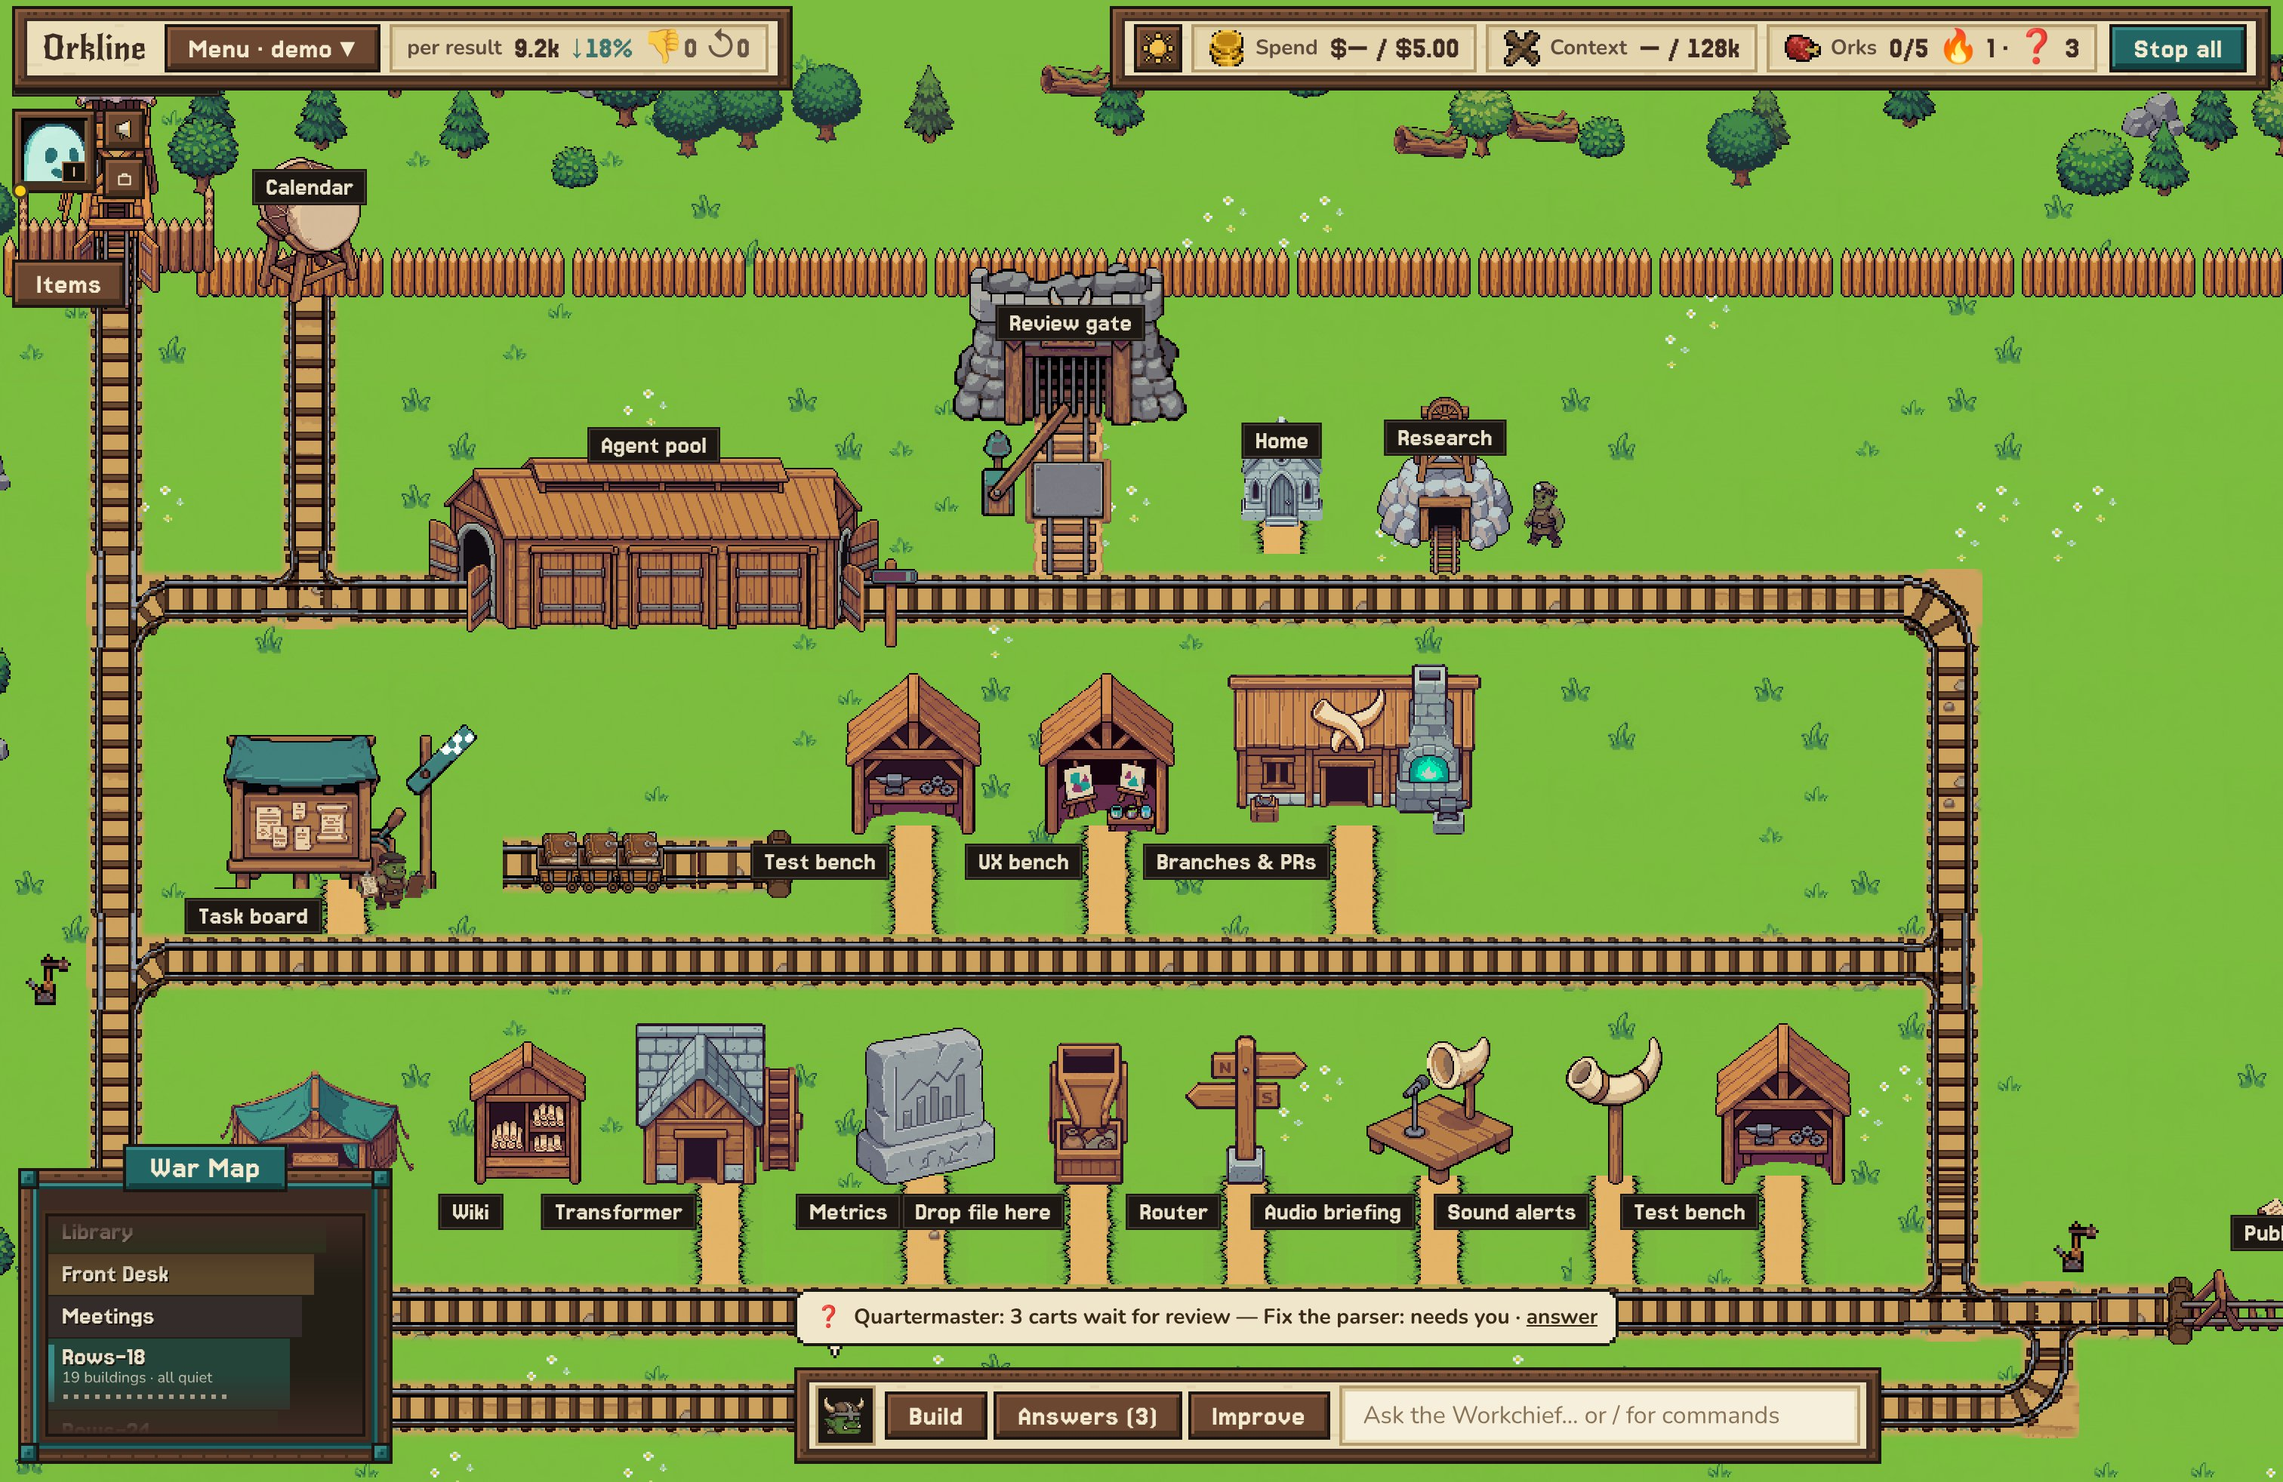
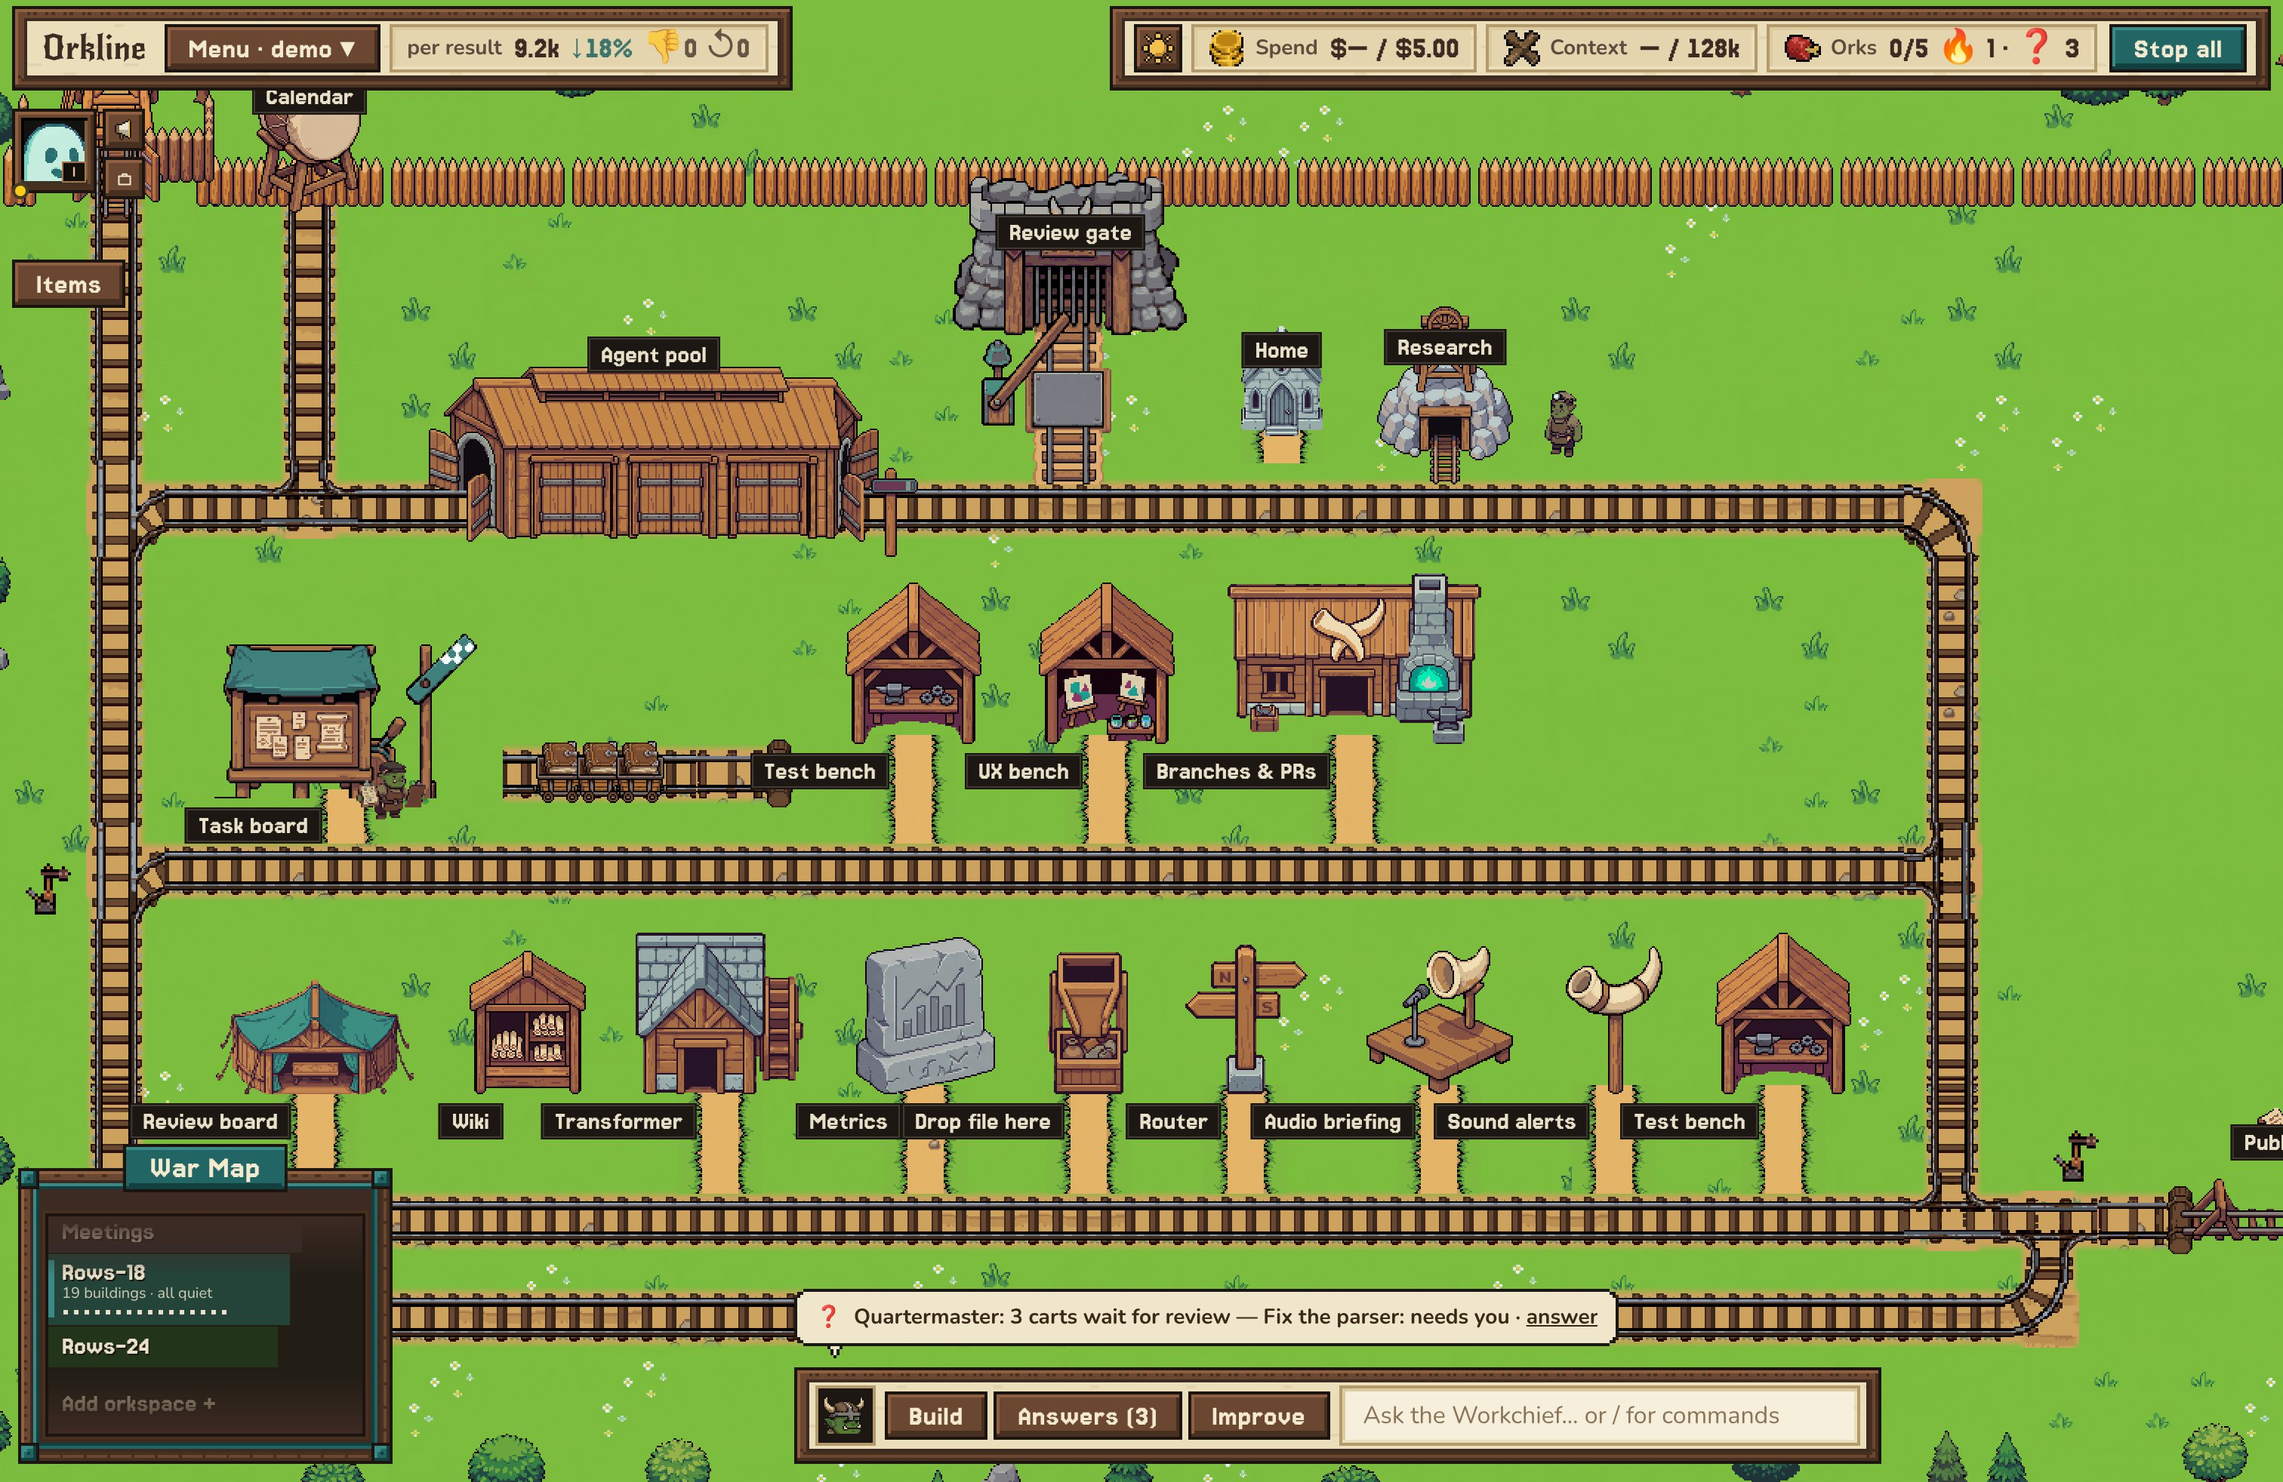
Camp: no notice band in the default frame; the view eases down for a herald's open notice
The default view frames the rows and the return line (3 x 6 at 1512 x 982). A herald's notice
(js/camp/notices.js, the kit's .kit-notice) opens over its herald; when its top would fall under
the HUD the view eases down just enough, only at x1 and not dragged, and back when it folds. By
the window's edge it stands aside of the camp's tools, its tail still over its herald.

Claude-Session: https://claude.ai/code/session_01UgRxyAxUf28MQWrZTqTq3V

diff --git a/orkcraft/gui/static/js/camp/town.js b/orkcraft/gui/static/js/camp/town.js
@@ -30,6 +30,7 @@ import { coverTop } from "../inset.js";
 import { settingsOpen } from "../settings.js";
 import { openMenu } from "../menu.js";
 import { Placed, Inventory } from "./items.js";
+import { Notices, notices } from "./notices.js";
 
 /** The ork a click on a building's steward means: the one stopped or asking, else at work, else its first; its
  *  console's key (core/slots.py rows: a roster ork's ref, a pool's `<building>/<name>`); null with none to show. */
@@ -47,7 +48,8 @@ const averagePerResult = (s) => (!s ? null : s.tokens !== null && s.tokens !== u
 const onOrk = (b) => { const key = orkKey(b); if (key) { stewardOf.value = null; showConsole(key, true); } else openStewardConsole(b.id); };
 const onBubble = (b) => { waybillOf.value = { building: b.id }; };   // the task's history
 
-const pan = signal({ x: 0, y: 0 });        // the drag's offset from the default view, CSS px
+const pan = signal({ x: 0, y: 0 });
+const ease = signal(0);                    // how far the view eases down for a herald's notice (§4f)        // the drag's offset from the default view, CSS px
 let panned = false;                        // the last press dragged the town: its click selects nothing
 const DRAG_PX = 5;
 
@@ -382,7 +384,24 @@ export function CampTown({ buildings, roads }) {
   const ox = !L ? 0 : Math.round(seen / 2 - (focus ? focus.x : L.work.x + L.work.w / 2) + pan.value.x);
   // covered, a camp taller than what is left shows its last line (where the carts run) above the panel, the wall's top cut
   const low = !L || focus || !box || L.work.h <= tall ? null : L.work.y + L.work.h - tall + 8;
-  const oy = !L ? 0 : Math.round((low !== null ? -low : tall / 2 - (focus ? focus.y : L.work.y + L.work.h / 2)) + pan.value.y);
+  // a herald's notice open at the default view, not dragged: the view eases down just enough for its top to clear the
+  // HUD (§4f), and back when it folds (measured after it draws: `ease`)
+  const easing = !focus && zoomLevel.value === "b" && !pan.value.x && !pan.value.y && Object.keys(notices.value).length > 0;
+  const oyBase = !L ? 0 : Math.round((low !== null ? -low : tall / 2 - (focus ? focus.y : L.work.y + L.work.h / 2)) + pan.value.y);
+  const oy = oyBase + (easing ? ease.value : 0);
+  useLayoutEffect(() => {
+    // from layout, not from the moving picture: each notice's top in the world (its herald's top, its tail, its own
+    // height), where the un-eased view puts it on screen, and the HUD's foot; settles in one pass
+    if (!easing || !L || !ref.current) { if (ease.value) ease.value = 0; return; }
+    const top = ref.current.getBoundingClientRect().top + ref.current.clientTop;   // the world's place inside its border
+    const hud = Math.max(0, ...[...document.querySelectorAll(".gui-hud__group")].map((e) => e.getBoundingClientRect().bottom));
+    const tops = [...document.querySelectorAll(".gui-camp__notice")].map((el) => {
+      const p = L.buildings[el.dataset.id];
+      return p ? top + oyBase + p.y - 6 - 16 - el.offsetHeight : Infinity;
+    });
+    const need = Math.max(0, Math.round(hud + 12 - Math.min(...tops)));
+    if (need !== ease.value) ease.value = need;
+  });
 
   const down = (e) => {
     if (e.button !== 0 || placing.value) return;
@@ -423,7 +442,7 @@ export function CampTown({ buildings, roads }) {
   const grown = grownCard.value && buildings.find((b) => b.id === grownCard.value);
   return html`<main ref=${ref} class=${cls("gui-town gui-camp", { "is-panning": panned, "is-overview": zoomLevel.value === "a" })} data-step=${L ? `${step.b}/${step.s}` : ""}
       onPointerDown=${down} onWheel=${wheel} onClick=${bare} onContextMenu=${(e) => { if (!e.target.closest(".gui-camp__building")) bareMenu(e, buildings, here, null); }}>
-    ${L && html`<div class=${cls("gui-camp__world", { "is-following": !!focus })} style=${`width:${L.w}px;height:${L.h}px;transform:translate(${ox}px,${oy}px)`}>
+    ${L && html`<div class=${cls("gui-camp__world", { "is-following": !!focus || easing || ease.value > 0 })} style=${`width:${L.w}px;height:${L.h}px;transform:translate(${ox}px,${oy}px)`}>
       <${Decals} L=${L} />
       <${Bed} L=${L} />
       <${Paths} L=${L} />
@@ -445,6 +464,7 @@ export function CampTown({ buildings, roads }) {
       ${finale && html`<div class="gui-camp__layer is-carts"><${Finale} key=${finale.id} L=${L} f=${finale} /></div>`}
       ${outB && html`<${StewardOut} b=${outB} p=${L.buildings[outB.id]} L=${L} grown=${selected.value === outB.id} onOrk=${onOrk} onBubble=${onBubble}
         seen=${{ left: -ox, top: -oy + 8, right: -ox + seen }} />`}
+      <${Notices} L=${L} seen=${{ left: -ox, right: -ox + seen }} />
       ${placing.value && html`<${Placing} p=${placing.value} L=${L} />`}
       ${grown && L.buildings[grown.id] && html`<${GrownCard} b=${grown} p=${L.buildings[grown.id]} L=${L} />`}
     </div>`}

diff --git a/orkcraft/gui/static/js/camp/notices.js b/orkcraft/gui/static/js/camp/notices.js
@@ -1,0 +1,48 @@
+// A herald's notice (design-system-v3.md §4f; the V4 kit's .kit-notice): over the herald on the back wall (the lookout,
+// the Calendar), opening upwards over the wall and the wilderness, never over a building. One at a time a herald; more
+// behind it a "+N" plate; folded, a small count chip. When the person is at the default view and has not dragged it,
+// the view eases down just enough for the notice's top to clear the HUD, and back when it folds (js/camp/town.js).
+// What raises a notice is the heralds' own (later); this module only places and draws it.
+import { signal } from "@preact/signals";
+import { html, cls } from "../html.js";
+import { say } from "../link.js";
+
+/** Open notices by building id: { title, when?, lines: [text | { text, small }], acts: [{ label, primary?, run? }],
+ *  ask? (a question: its mark alone yellow), more? (how many behind it), folded? (only the count chip) }. */
+export const notices = signal({});
+
+export const showNotice = (id, n) => { notices.value = { ...notices.value, [id]: n }; };
+export const foldNotice = (id) => { const n = { ...notices.value }; delete n[id]; notices.value = n; };
+
+function Notice({ id, n }) {
+  if (n.folded) {
+    return html`<button type="button" class="kit-notice-chip" onClick=${(e) => { e.stopPropagation(); showNotice(id, { ...n, folded: false }); }}>
+      ${say(`${n.count || 1} new`)}</button>`;
+  }
+  return html`<div class=${cls("kit-notice", { "is-stacked": n.more > 0 })} role="dialog" aria-label=${say(n.title)}>
+    ${n.more > 0 && html`<span class="kit-notice__more">+${n.more}</span>`}
+    <div class="kit-notice__head">${n.ask && html`<span class="kit-notice__ask">?</span>`}
+      <span class="kit-notice__title">${say(n.title)}</span>${n.when && html`<span class="kit-notice__when">${say(n.when)}</span>`}</div>
+    ${(n.lines || []).map((l) => html`<p class=${cls("kit-notice__line", { "is-small": l && l.small })}>${say(typeof l === "string" ? l : l.text)}</p>`)}
+    <div class="kit-notice__acts">${(n.acts || [{ label: "Dismiss" }]).map((a) => html`<button type="button"
+        class=${cls("kit-btn", { "is-teal": a.primary })} onClick=${(e) => { e.stopPropagation(); (a.run || (() => foldNotice(id)))(); }}>${say(a.label)}</button>`)}</div>
+  </div>`;
+}
+
+const HALF = 190;         // half the widest notice (the kit's 360 px and its frame)
+const RAIL = 104;         // the camp's tools down the left edge (the Workchief, Items): a notice stays right of them
+const SWAY = 150;         // how far a notice may stand aside of its herald, its tail still over the herald
+
+/** The open notices, each over its herald's top, its tail pointing down at it; one by the window's edge stands aside
+ *  into the window, its tail still at the herald. `seen`: the part of the world in the window, {left, right}. */
+export function Notices({ L, seen }) {
+  const open = Object.entries(notices.value).filter(([id]) => L.buildings[id] && L.buildings[id].wall);
+  if (!open.length) return null;
+  return html`<div class="gui-camp__layer is-notices">${open.map(([id, n]) => {
+    const p = L.buildings[id];
+    const x = Math.min(Math.max(p.cx, seen.left + RAIL + HALF), seen.right - HALF - 16);
+    const dx = Math.max(-SWAY, Math.min(SWAY, p.cx - x));
+    return html`<div key=${id} class="gui-camp__notice" data-id=${id} style=${`left:${p.cx - dx}px;top:${p.y - 6}px;--tail:${dx}px`}
+        onClick=${(e) => e.stopPropagation()} onPointerDown=${(e) => e.stopPropagation()}><${Notice} id=${id} n=${n} /></div>`;
+  })}</div>`;
+}

diff --git a/orkcraft/gui/static/js/camp/layout.js b/orkcraft/gui/static/js/camp/layout.js
@@ -293,10 +293,9 @@ export function lay(buildings, roads, step, size, waiting = () => false, home = 
     const way = s && r && footpath(s, out.buildings[r], FOOTPATH * B);
     if (way) out.paths.push(way);
   }
-  // the work, from over the wall to the return line: with a herald, its height over the wall and a band of wilderness
-  // above it where its notices open (§4f; V4 draws them), so the default view keeps that band in sight
-  const over = herald ? out.buildings[herald.id].h + 40 * B : 24 * B;
-  out.work = { x: colL, y: wallY - over, w: track.xs + 2 * T - colL, h: foot - wallY + over };
+  // the work, from the back wall to the return line (the default view is centred on it); a herald's notice does not
+  // widen it: the view eases down for it when it opens (js/camp/town.js, §4f)
+  out.work = { x: colL, y: wallY - 24 * B, w: track.xs + 2 * T - colL, h: foot - wallY + 24 * B };
   out.decor = decorAround(out, B);
 
   const cells = link(cellsOf(out.tiles), T);

diff --git a/orkcraft/gui/static/camp.css b/orkcraft/gui/static/camp.css
@@ -225,3 +225,8 @@
   mask: linear-gradient(to bottom, transparent, #000 5px, #000 calc(100% - 5px), transparent); }
 .gui-camp__bed.is-v { -webkit-mask: linear-gradient(to right, transparent, #000 5px, #000 calc(100% - 5px), transparent);
   mask: linear-gradient(to right, transparent, #000 5px, #000 calc(100% - 5px), transparent); }
+/* a herald's notice (§4f): over its herald, opening upwards over the wall and the wilderness (the V4 kit draws it) */
+.gui-camp__layer.is-notices { z-index: 2200; }
+.gui-camp__notice { position: absolute; transform: translate(-50%, calc(-100% - 16px)); pointer-events: auto; cursor: default; }
+/* a notice standing aside of its herald (by the window's edge) keeps its tail over the herald */
+[data-look="camp"] .gui-camp__notice .kit-notice::after { left: calc(50% - 14px + var(--tail, 0px)); }

diff --git a/tests/test_camp_layout.py b/tests/test_camp_layout.py
@@ -458,7 +458,7 @@ console.log(JSON.stringify({ n: L.decor.length, inside, way, again, green }));
 def test_the_calendar_stands_on_the_back_wall_walk_with_a_spur_down_to_line_1(tmp_path):
     """design-system-v3.md §4f: the first Calendar is a herald, on the wall walk right of the lookout, its stop on line 1
     reached by a short spur (track drawn, not a way for carts); the top row starts east of it; a second Calendar stands
-    in the rows; the default view keeps a band over the wall for its notices."""
+    in the rows; the default view frames the rows, not a band for its notices."""
     out = _run(TOWN + """
 B.push({ id: "cal", type: "war_drum" }, { id: "cal2", type: "war_drum" });
 const L = C.lay(B, R, { b: 1, s: 1 }, size), h = L.buildings.cal, t = L.buildings.in;
@@ -473,7 +473,7 @@ console.log(JSON.stringify({ h, t, wallY: L.wall.y, line: L.lines[0], spur: spur
     assert out["spur"] and all(n == "straight-v" for n, _, _ in out["spur"]) and out["join"] == "t-n"
     assert h["stop"]["y"] == out["line"] + 32 and out["firstX"] > h["cx"]          # its stop on line 1; the row east
     assert out["second"] >= 0 and out["route"]                                     # a second in the rows; it sends carts
-    assert out["workTop"] <= h["y"] - 40                                            # a band over it in the default view
+    assert out["workTop"] > h["y"]                     # no band kept for its notices: the view eases down when one opens
 
 
 def test_the_buildings_doorways_are_in_the_manifest_and_survive_a_recut():

diff --git a/docs/design/design-system-v3.md b/docs/design/design-system-v3.md
@@ -645,10 +645,13 @@ than a chip, and a bubble over a building in the rows covers its neighbours. So:
 - **The Calendar.** The first one (`layout.js` `HERALD`) stands on the wall walk right of the lookout. Its stop is on
   line 1, reached by a spur of straights (drawn, not a way for carts) and a T on the line. The top row starts east of
   it; a second Calendar stands in the rows.
-- **The band.** The default view's work area reaches its height over the wall plus a band of 40 art px for its
-  notices. At 1512 × 982 that pushes the return line to the command bar's edge: the band and a fully visible return
-  line do not both fit at ×1.
-- Shots: `img/loop/herald-1512|1470.jpg`.
+- **No band; the view eases.** The default view frames the rows from the back wall to the return line (3 × 6 at
+  1512 × 982, the return line in sight); no room is kept for notices. When a herald's notice opens (`js/camp/notices.js`,
+  the V4 kit's `.kit-notice`) and its top would fall under the HUD, the view eases down just enough for it to clear the
+  HUD by 12 px, only at ×1 not dragged, and back when it folds (`town.js`, measured from layout, not from the moving
+  picture). The notice may cover the wilderness and the palisade, never a building; by the window's edge it stands
+  aside, right of the camp's tools (the Workchief, Items), its tail still over its herald.
+- Shots: `img/loop/herald-1512.jpg` (closed), `img/loop/herald-notice-1512.jpg` (a notice open).
 
 ## 5. Signals win by value
 
